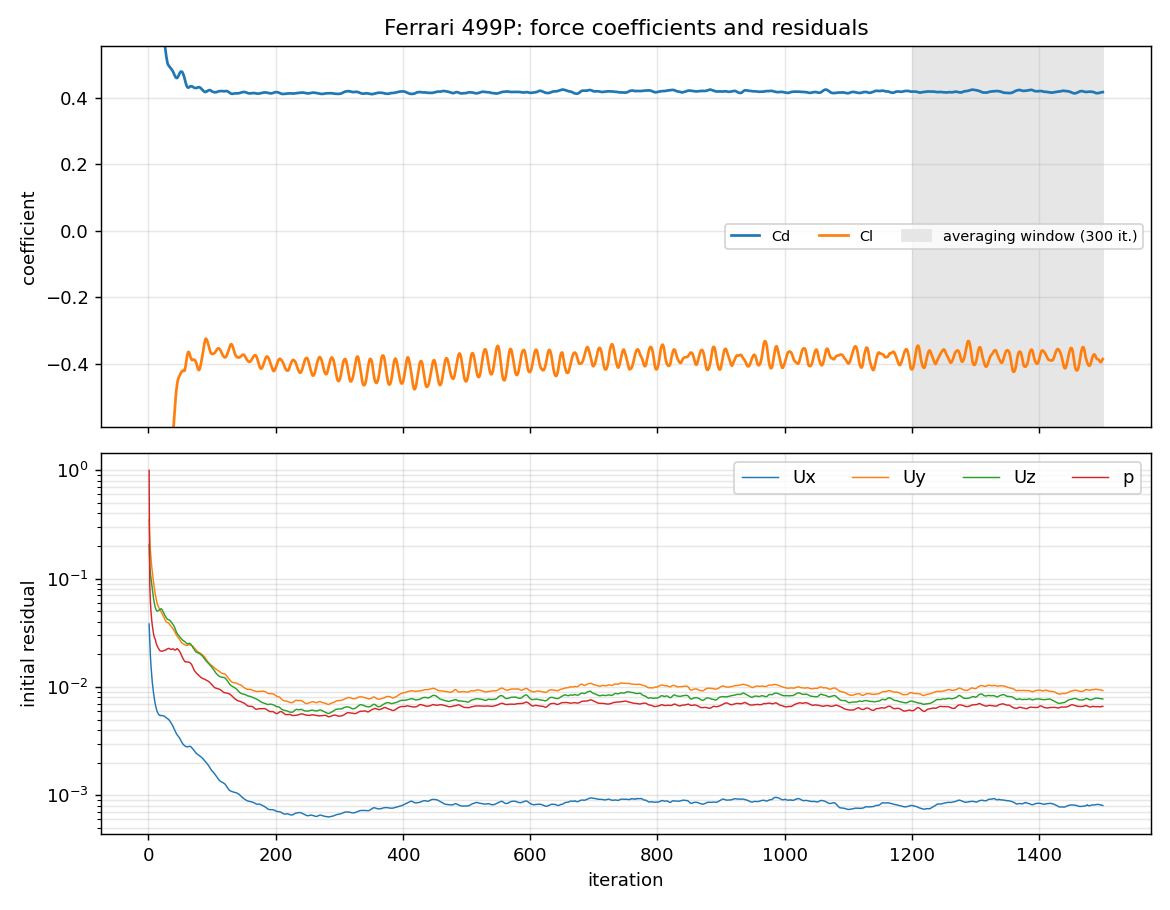
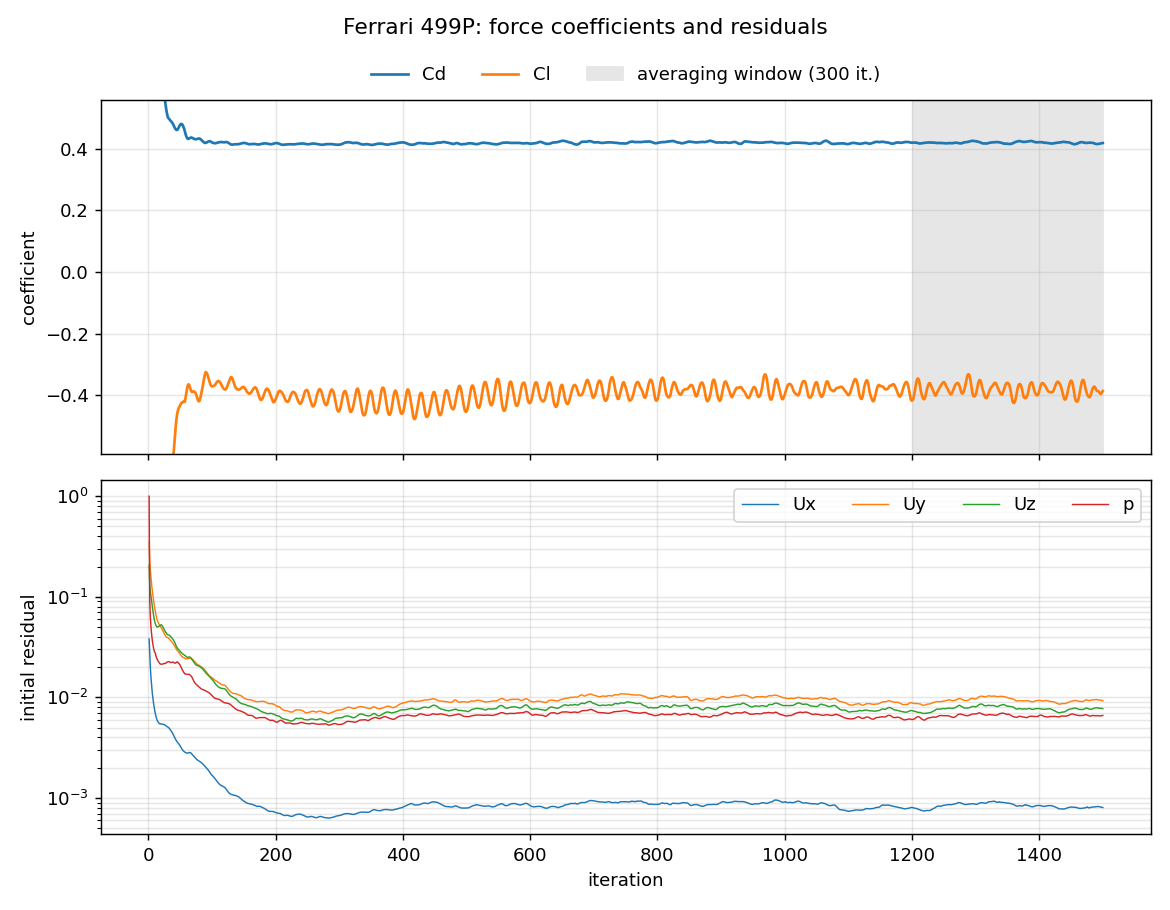
Move plot legends clear of data; note periodic lift on Ahmed body

diff --git a/tools/plot_results.py b/tools/plot_results.py
@@ -70,8 +70,8 @@ def main():
         pad = 0.15 * (hi - lo)
         ax1.set_ylim(lo - pad, hi + pad)
         ax1.set_ylabel("coefficient")
-        ax1.set_title(f"{label}: force coefficients and residuals")
-        ax1.legend(loc="center right", ncol=3, fontsize=8)
+        fig.suptitle(f"{label}: force coefficients and residuals")
+        ax1.legend(loc="lower center", bbox_to_anchor=(0.5, 1.0), ncol=3, frameon=False)
         ax1.grid(alpha=0.3)
         for i, name in enumerate(["Ux", "Uy", "Uz", "p"], start=1):
             ax2.semilogy(res[:, 0], res[:, i], label=name, lw=0.8)

diff --git a/ahmed-body/README.md b/ahmed-body/README.md
@@ -34,7 +34,8 @@ This is the suction over the slant and the vortices at the C-pillars.
 - **Drag within 6 % of the experiment** is a reasonable result for steady RANS
   at a 25° slant. That angle sits just below the critical ~30°, where the flow over the slant
   switches from partly attached to fully separated, so it's a sensitive regime.
-- **The lift oscillates by about ±28 %** while drag holds within 1 %. The separation bubble
+- **The lift oscillates by about ±28 %** while drag holds within 1 %. The oscillation is a very
+  regular cycle of about 20 iterations (see the plot above), and the separation bubble
   on the slant doesn't reach a steady state, which suggests the flow is unsteady in
   reality. A time-accurate simulation (URANS or DES) would capture this better.
 - **Possible causes of the drag difference:** a single prism layer and wall functions

diff --git a/README.md b/README.md
@@ -36,7 +36,7 @@ geometry with [`tools/frontal_area.py`](tools/frontal_area.py).
 | Discretisation | Bounded `linearUpwindV` for momentum, GAMG for pressure |
 | Initialisation | `potentialFoam` |
 | Run | 1500 iterations (500 for motorBike), decomposed across 6 cores |
-| Convergence | Residuals level off at 10⁻²–10⁻³ (normal for steady RANS on bluff bodies), so convergence is judged by Cd and Cl settling to a steady mean |
+| Convergence | Residuals level off around 10⁻² (10⁻³ for some velocity components) (normal for steady RANS on bluff bodies), so convergence is judged by Cd and Cl settling to a steady mean |
 
 ## Lessons learned
 
